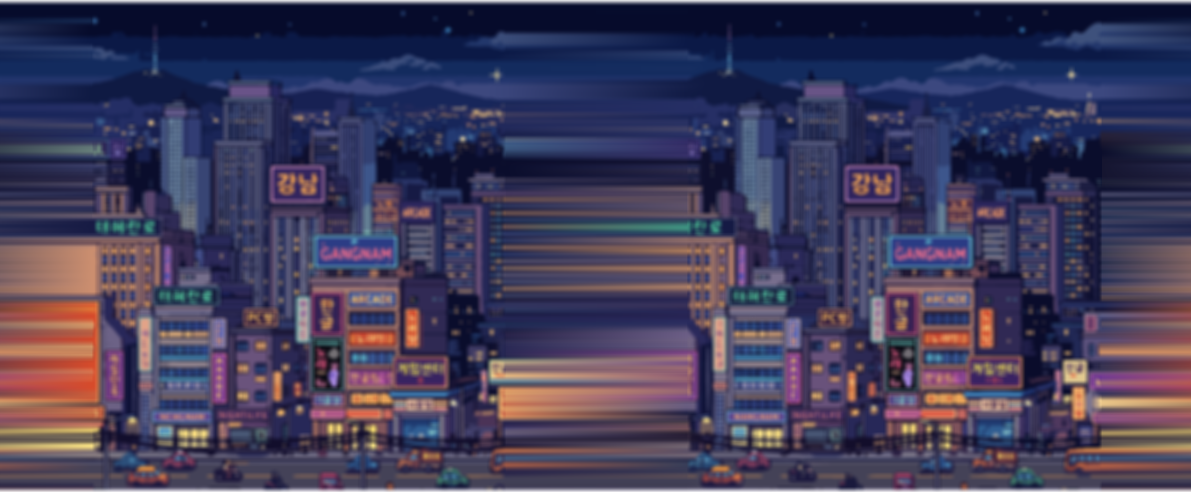
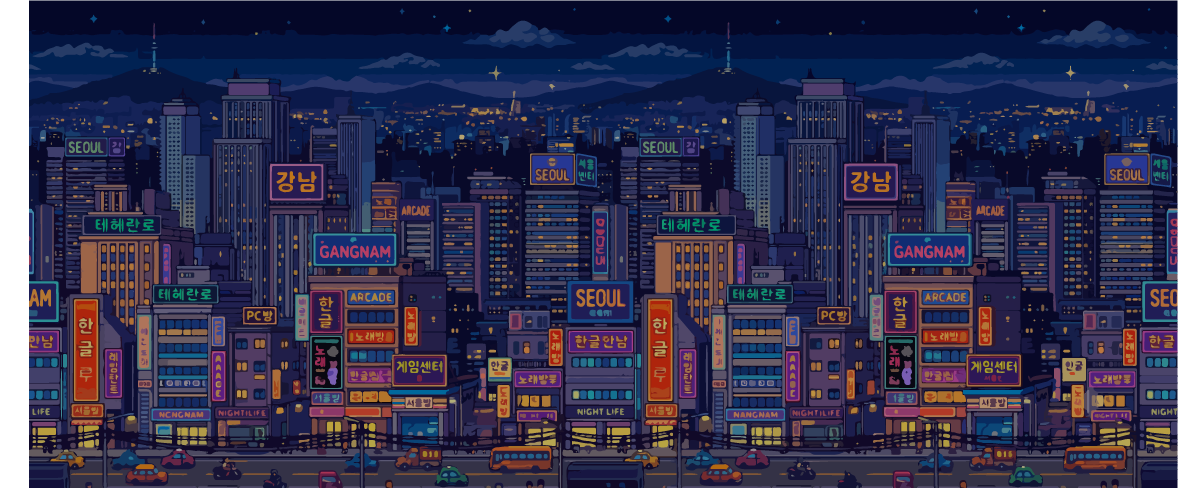
Cocktail Blitz: 배경 원본패턴 그대로 재크롭(가공 없음, 좌우이음새 0.00) + bg 25% 어둡게 + 적 탄 크기 1.5배 + 코인 발광(맥동 후광)

diff --git a/cocktail_blitz.html b/cocktail_blitz.html
@@ -448,7 +448,7 @@
           e.x+=e.vx*sm; e.y+=e.vy*sm;   // ★멈추지 않고 계속 진행하면서 침을 뱉음(더 이상 정지 안 함)
           e.fireT--; if(e.fireT<=0){ e.fireT=Math.max(70,120-t); e.vomit=16;
             const a=Math.atan2(player.y-e.y,player.x-e.x);   // 초록 vomit 블롭 1발(약화)
-            const sp=2.6+Math.random()*0.6; ebullets.push({x:e.x,y:e.y+e.r*0.3,vx:Math.cos(a)*sp,vy:Math.sin(a)*sp,r:7,col:'#9ad14f',vomit:true,wob:Math.random()*6.28});
+            const sp=2.6+Math.random()*0.6; ebullets.push({x:e.x,y:e.y+e.r*0.3,vx:Math.cos(a)*sp,vy:Math.sin(a)*sp,r:11,col:'#9ad14f',vomit:true,wob:Math.random()*6.28});
             sfx('sfx_hurt',0.22); }
         } else {
           e.x+=e.vx*sm; e.y+=e.vy*sm;
@@ -465,11 +465,11 @@
           else { boss.x+=boss.dir*bs; if(boss.x<boss.r+10){boss.x=boss.r+10;boss.dir=1;} if(boss.x>W-boss.r-10){boss.x=W-boss.r-10;boss.dir=-1;} }
           // ① 조준 연발(플레이어를 향해 3~5갈래)
           boss.fireT--; if(boss.fireT<=0){ boss.fireT=Math.max(24,54-bossCount*6); const ang=Math.atan2(player.y-boss.y,player.x-boss.x),sp=3+bossCount*0.25, sh=2+Math.min(2,Math.floor(bossCount/2));
-            for(let k=-sh;k<=sh;k++){ const a=ang+k*0.16; ebullets.push({x:boss.x,y:boss.y,vx:Math.cos(a)*sp,vy:Math.sin(a)*sp,r:6}); } sfx('hit',0.3); }
+            for(let k=-sh;k<=sh;k++){ const a=ang+k*0.16; ebullets.push({x:boss.x,y:boss.y,vx:Math.cos(a)*sp,vy:Math.sin(a)*sp,r:9}); } sfx('hit',0.3); }
           // ② 방사형 버스트(사방)
-          boss.burstT--; if(boss.burstT<=0){ boss.burstT=170; const n=8+bossCount*2; for(let k=0;k<n;k++){ const a=k/n*6.28; ebullets.push({x:boss.x,y:boss.y,vx:Math.cos(a)*2.4,vy:Math.sin(a)*2.4,r:6}); } sfx('sfx_boss',0.35); }
+          boss.burstT--; if(boss.burstT<=0){ boss.burstT=170; const n=8+bossCount*2; for(let k=0;k<n;k++){ const a=k/n*6.28; ebullets.push({x:boss.x,y:boss.y,vx:Math.cos(a)*2.4,vy:Math.sin(a)*2.4,r:9}); } sfx('sfx_boss',0.35); }
           // ③ 회전 스파이럴(빙글빙글 뿜기) — 2번째 보스부터
-          if(bossCount>=2){ boss.spA=(boss.spA||0)+0.35; if(frame%4===0){ const arms=2+Math.min(3,Math.floor(bossCount/2)); for(let k=0;k<arms;k++){ const a=boss.spA+k*(6.28/arms); ebullets.push({x:boss.x,y:boss.y,vx:Math.cos(a)*2.6,vy:Math.sin(a)*2.6,r:5,col:'#ffb14d'}); } } } }
+          if(bossCount>=2){ boss.spA=(boss.spA||0)+0.35; if(frame%4===0){ const arms=2+Math.min(3,Math.floor(bossCount/2)); for(let k=0;k<arms;k++){ const a=boss.spA+k*(6.28/arms); ebullets.push({x:boss.x,y:boss.y,vx:Math.cos(a)*2.6,vy:Math.sin(a)*2.6,r:8,col:'#ffb14d'}); } } } }
         bossfill.style.width=Math.max(0,boss.hp/boss.maxHp*100)+'%';
         if(!boss.enter&&Math.hypot(boss.x-player.x,boss.y-player.y)<boss.r+player.r-4) hurt(40); }
       // 적 탄
@@ -520,23 +520,31 @@
     for(let k=k0;k<=k1;k++){ const x=k*tw - s;
       ctx.drawImage(im, 0,0,im.width,im.height, Math.floor(x), y, Math.ceil(tw)+1, h); } }
   function draw(){ ctx.clearRect(0,0,W,H); ctx.save(); if(shake>0) ctx.translate((Math.random()-0.5)*shake,(Math.random()-0.5)*shake);
-    // ★강남 배경 — 뒤 1겹(이음새 없는 스카이라인) + 앞 3겹(같은 건물 이미지를 높이·속도 다르게 겹침).
-    //   투명도 조작 없이 이미지만 겹침(앞 이미지의 하늘은 원래 투명이라 뒤가 자연스럽게 비침).
+    // ★강남 배경 — 원본 패턴 그대로 타일(좌우끝 색차 0 → 이음새 없음, 가공 흔적 없음).
+    //   뒤 1겹(스카이라인, 이미지 자체가 25% 어두움) + 앞 3겹(하단정렬, 높이·속도 다르게).
     const bgi=IMG.bg_gangnam, fgi=IMG.fg_gangnam;
     if(bgi){
-      tileMirror(bgi, 0, H, 0.18, 0);                             // 뒤: 스카이라인(느리게, 좌우 끝 이어짐)
-      ctx.fillStyle='rgba(4,6,14,0.66)'; ctx.fillRect(0,0,W,H);   // ★전체적으로 더 어둡게
+      tileMirror(bgi, 0, H, 0.18, 0);                             // 뒤: 스카이라인(느리게)
+      ctx.fillStyle='rgba(4,6,14,0.42)'; ctx.fillRect(0,0,W,H);   // 약한 어둠막(이미지+막 = 더 어둡게)
     }
-    if(fgi){                                                      // 앞 3겹(뒤→앞: 느리고 높음 → 빠르고 낮음)
-      tileMirror(fgi, H-H*0.56, H*0.56, 0.38, 0.15);
-      tileMirror(fgi, H-H*0.46, H*0.46, 0.60, 0.55);
-      tileMirror(fgi, H-H*0.36, H*0.36, 0.86, 0.80);
+    if(fgi){                                                      // 앞 3겹(뒤→앞: 느리고 높음 → 빠르고 낮음), 하단정렬
+      tileMirror(fgi, H-H*0.60, H*0.60, 0.40, 0.15);
+      tileMirror(fgi, H-H*0.50, H*0.50, 0.62, 0.55);
+      tileMirror(fgi, H-H*0.40, H*0.40, 0.88, 0.80);
     }
     else { for(const s of stars){ ctx.globalAlpha=s.z*0.8; ctx.fillStyle='#cdd7ef'; ctx.fillRect(s.x*W,s.y*H,s.z*1.8,s.z*1.8); } ctx.globalAlpha=1; }
     for(const p of parts){ ctx.globalAlpha=Math.max(0,p.life); ctx.fillStyle=p.col; ctx.beginPath(); ctx.arc(p.x,p.y,p.r,0,6.28); ctx.fill(); } ctx.globalAlpha=1;
     if(state!=='title'){
       // coins
-      for(const c of coinDrops){ ctx.fillStyle='#ffd24a'; ctx.strokeStyle='#a5771a'; ctx.lineWidth=1.5; ctx.beginPath(); ctx.arc(c.x,c.y,c.r,0,6.28); ctx.fill(); ctx.stroke(); ctx.fillStyle='#a5771a'; ctx.font='bold 8px monospace'; ctx.textAlign='center'; ctx.fillText('₩',c.x,c.y+3); }
+      for(const c of coinDrops){
+        const pulse=0.6+0.4*Math.sin(frame*0.18+(c.x+c.y)*0.05);                          // ★반짝이는 맥동
+        const gr=ctx.createRadialGradient(c.x,c.y,1,c.x,c.y,c.r*3.2);                       // 금빛 후광
+        gr.addColorStop(0,'rgba(255,230,130,'+(0.55*pulse)+')'); gr.addColorStop(1,'rgba(255,210,74,0)');
+        ctx.fillStyle=gr; ctx.beginPath(); ctx.arc(c.x,c.y,c.r*3.2,0,6.28); ctx.fill();
+        ctx.save(); ctx.shadowColor='#ffdf6e'; ctx.shadowBlur=10+6*pulse;                   // 발광
+        ctx.fillStyle='#ffe66a'; ctx.strokeStyle='#a5771a'; ctx.lineWidth=1.5; ctx.beginPath(); ctx.arc(c.x,c.y,c.r,0,6.28); ctx.fill(); ctx.stroke(); ctx.restore();
+        ctx.fillStyle='#fff'; ctx.globalAlpha=0.85*pulse; ctx.beginPath(); ctx.arc(c.x-c.r*0.3,c.y-c.r*0.3,c.r*0.32,0,6.28); ctx.fill(); ctx.globalAlpha=1;  // 하이라이트 광점
+        ctx.fillStyle='#a5771a'; ctx.font='bold 8px monospace'; ctx.textAlign='center'; ctx.fillText('₩',c.x,c.y+3); }
       // player bullets
       for(const b of bullets){
         if(b.img && IMG[b.img]){ const im=IMG[b.img], h=b.r*2.8, w=h*im.width/im.height; ctx.save(); ctx.translate(b.x,b.y); ctx.rotate(b.spin?frame*0.32:(b.upright?0:((b.ang||-Math.PI/2)+Math.PI/2))); ctx.imageSmoothingEnabled=false; ctx.drawImage(im,-w/2,-h/2,w,h); ctx.restore(); continue; }
